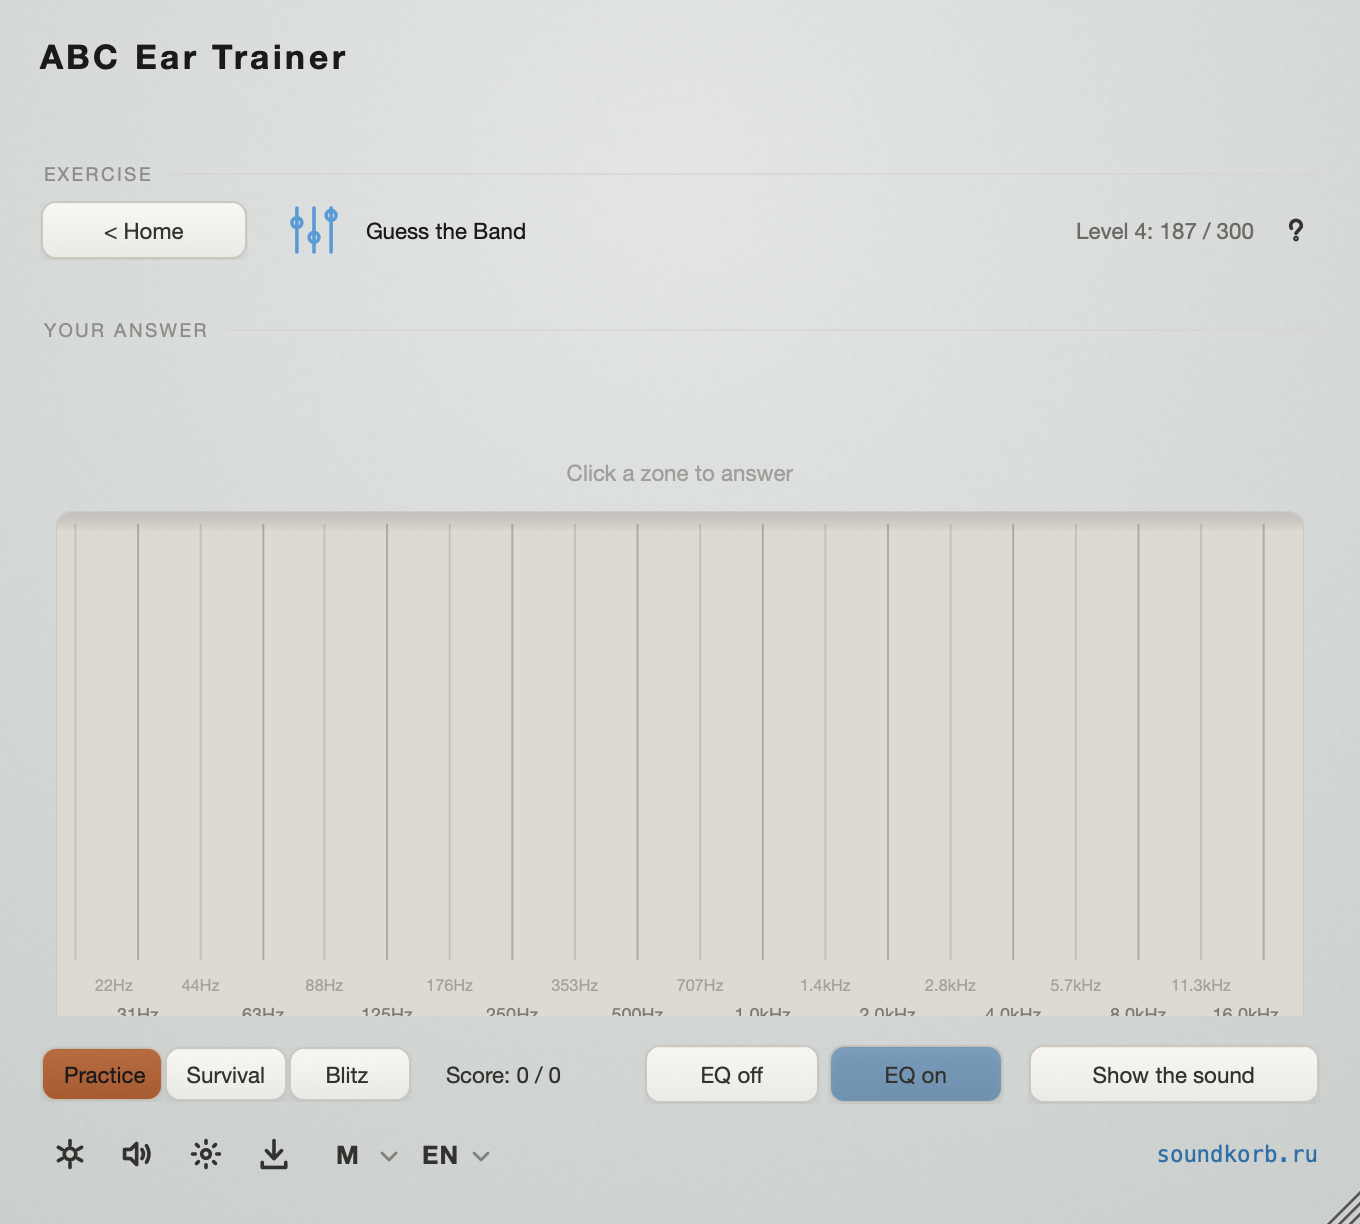
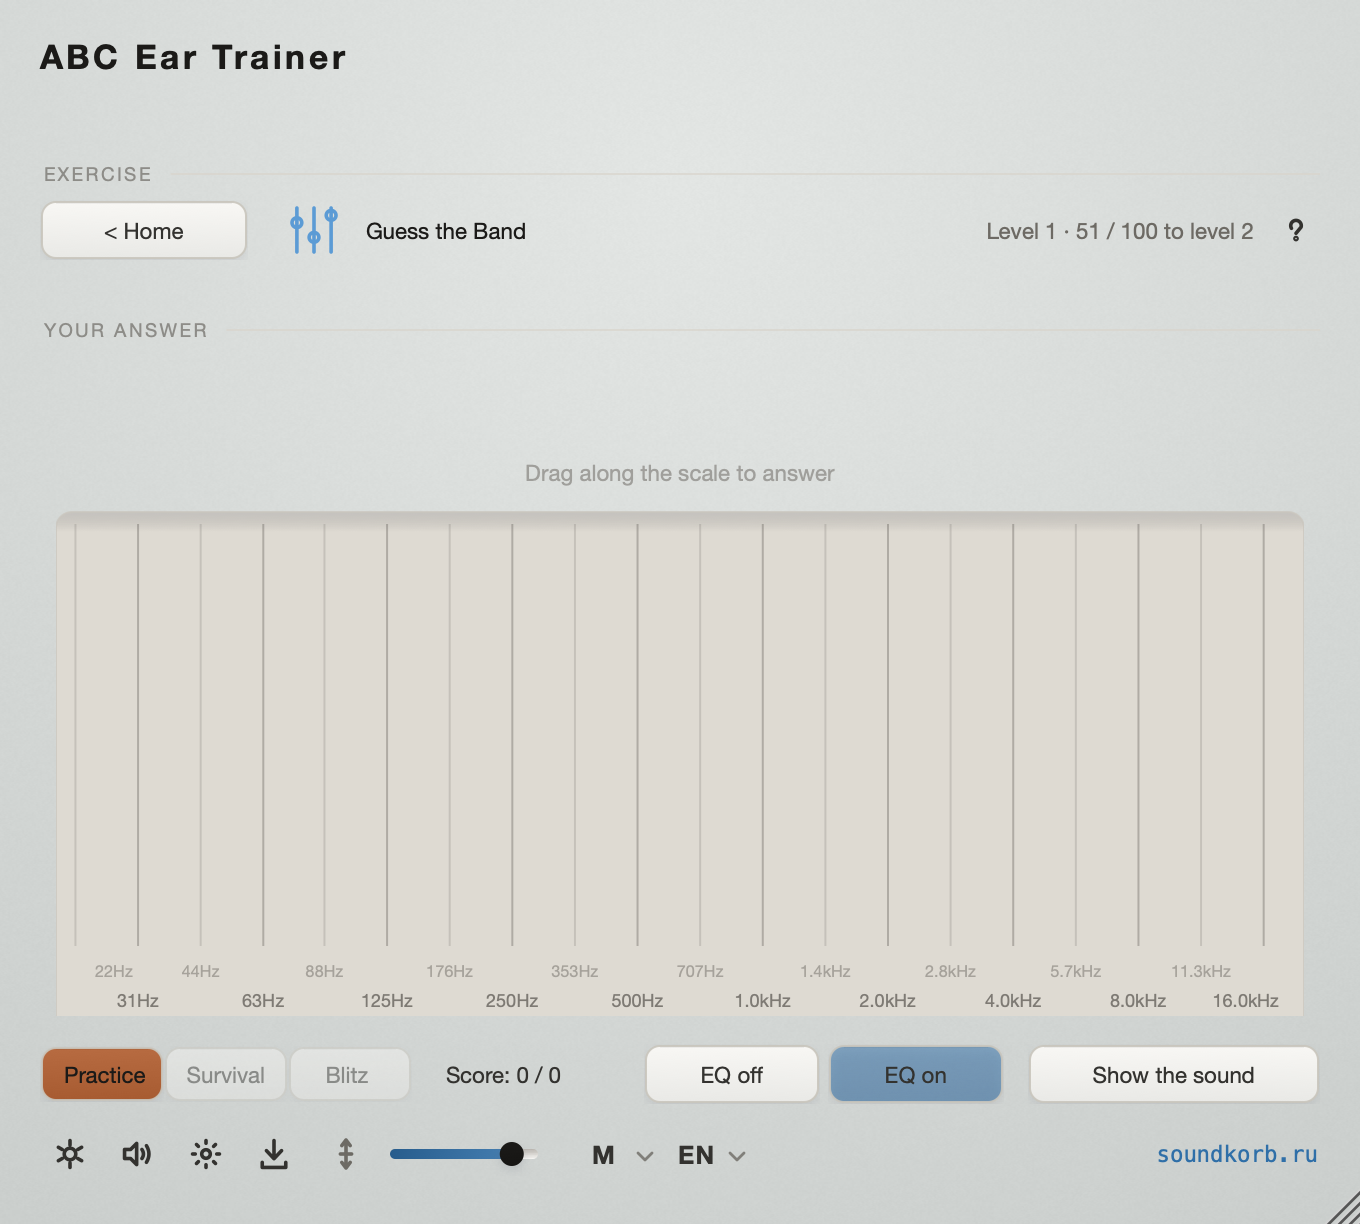
Volume, and three things about levels that were saying the wrong number
There was no volume control anywhere in EarTrainer - the processor had a
mute and nothing else, and per-exercise loudness was fixed in code. Making
one quieter meant the OS mixer.

Where it is applied is the whole design. Every exercise levels its treated
signal against its own untreated one offline so that "which is louder"
cannot answer "which is compressed"; a gain inside a game, or on one side
of the A/B, would put that tell straight back. This one sits after the
game, after the A/B, and after the hint scopes - so it moves both sides by
the same number and cannot change an answer, and a waveform does not
shrink when you turn your monitoring down. Smoothed over 40 ms, because
nothing else in this codebase smooths a gain and a dragged slider would
otherwise be the loudest zipper in the product.

The tolerance band never updated when you earned a level. The rebuild
test compared the choice *count*, which for a continuous exercise never
changes, so the band kept the previous level's width until you left the
exercise and came back. It is the one thing on that screen that says out
loud what a level is, and the reward for passing a five-in-a-row
promotion was invisible in exactly the place it should have been loudest.

The training screen showed the level you had not got yet - level + 1,
against the home card's current level, so the two differed by one and read
as a bug. It now shows both: "Level 4 - 130 / 400 to level 5". English was
[…]

diff --git a/Source/PluginEditor.cpp b/Source/PluginEditor.cpp
@@ -63,6 +63,7 @@ namespace
     // "abcTrain" PropertiesFile the language preference already uses.
     constexpr const char* themeModeKey = "themeMode";
     constexpr const char* uiScaleKey = "uiScale";
+    constexpr const char* outputGainKey = "outputGainDb";
     // Not "have you seen the welcome screen" any more - that shows every
     // launch now, by request. This only remembers whether the walkthrough
     // has been offered, which is a question worth asking exactly once.
@@ -311,6 +312,26 @@ EarTrainerEditor::EarTrainerEditor (EarTrainerProcessor& p)
         }
     };
     addAndMakeVisible (sizeSelector);
+
+    // Output level. The range stops at +6 rather than 0 because the games
+    // deliberately run well below full scale to leave the treated side
+    // headroom, so a laptop at low volume genuinely needs to go up.
+    volumeSlider.setRange (EarTrainerProcessor::minOutputGainDb,
+                            EarTrainerProcessor::maxOutputGainDb, 0.5);
+    volumeSlider.setSkewFactorFromMidPoint (-12.0);
+    volumeSlider.setDoubleClickReturnValue (true, 0.0);
+    volumeSlider.setTooltip (localisation.getText ("ui.volume"));
+    volumeSlider.onValueChange = [this] { applyVolumeFromSlider(); };
+    addAndMakeVisible (volumeSlider);
+
+    // Not Icon::sound - that is the speaker already used two slots along
+    // for "which sounds you train on", and two identical glyphs meaning
+    // different things is the confusion this control was meant to end.
+    // The level arrow reads as amount, and it is sitting against a
+    // horizontal slider, which is itself the universal shape for volume.
+    volumeIcon.setIcon (AppIcons::Icon::gain);
+    volumeIcon.setIconColour (AbcTrainTheme::current().textDim);
+    addAndMakeVisible (volumeIcon);
 
     for (const auto& code : LocalisationManager::getSupportedLanguageCodes())
         languageSelector.addItem (LocalisationManager::getDisplayName (code),
@@ -776,6 +797,9 @@ EarTrainerEditor::EarTrainerEditor (EarTrainerProcessor& p)
                       (int) (logicalWidth * 2.0), (int) (logicalBaseHeight * 2.0));
 
     setUiScale (localisationProperties.getDoubleValue (uiScaleKey, 1.0));
+    volumeSlider.setValue (localisationProperties.getDoubleValue (outputGainKey, 0.0),
+                            juce::dontSendNotification);
+    applyVolumeFromSlider();
 
     applyTheme();
     session.startRun();
@@ -1019,6 +1043,16 @@ void EarTrainerEditor::resized()
         themeButton.setBounds (bar.removeFromLeft (iconSize));
         bar.removeFromLeft (Spacing::tight);
         updateButton.setBounds (bar.removeFromLeft (iconSize));
+        bar.removeFromLeft (Spacing::medium);
+
+        // Output level. Sits with the other things that are about *your*
+        // setup rather than about the exercise, and next to the training
+        // sounds button people were already reaching for when they wanted
+        // this (that one is a speaker glyph, which is exactly what "make
+        // it quieter" looks for).
+        volumeIcon.setBounds (bar.removeFromLeft (18).withSizeKeepingCentre (18, 18));
+        bar.removeFromLeft (Spacing::hairline);
+        volumeSlider.setBounds (bar.removeFromLeft (96).withSizeKeepingCentre (96, 22));
         bar.removeFromLeft (Spacing::medium);
 
         // Indicators, not form fields: each asks for exactly the width its
@@ -1634,6 +1668,14 @@ void EarTrainerEditor::startNewRun()
     refreshRunStatus();
 }
 
+void EarTrainerEditor::applyVolumeFromSlider()
+{
+    const auto db = (float) volumeSlider.getValue();
+    processor.setOutputGainDb (db);
+    localisationProperties.setValue (outputGainKey, (double) db);
+    localisationProperties.saveIfNeeded();
+}
+
 void EarTrainerEditor::setUiScale (float newScale)
 {
     uiScale = juce::jlimit (0.8f, 1.4f, newScale);
@@ -2009,7 +2051,12 @@ void EarTrainerEditor::refreshLocalisedText()
     // that did need writing.
     refreshBeforeAfter();
     refreshHintButton();
-    choiceSlider.setPlaceholderText (localisation.getText ("ui.dragToChoose"));
+    // A ruler has no zones to click. One key served both modes, so the
+    // four scale exercises told you to "click a zone to answer" beside a
+    // continuous axis that has none.
+    choiceSlider.setPlaceholderText (localisation.getText (
+        processor.getGameManager().getActiveGame().usesContinuousScale()
+            ? "ui.dragOnScale" : "ui.dragToChoose"));
 
     {
     }
@@ -2030,8 +2077,18 @@ bool EarTrainerEditor::choiceSliderMatchesGame (Game& game) const
     // A continuous game has no named choices at all - its ruler is the
     // grid marks, which don't move between rounds - so comparing labels
     // there would rebuild the scale every single round for nothing.
+    //
+    // The tolerance still has to be compared, though. It is the one thing
+    // on this screen that says out loud what a level *is*, and it only
+    // changes when the player earns a level - at which point the count
+    // this used to compare on its own has not moved, so the band kept the
+    // previous level's width until the player left the exercise and came
+    // back. The reward for passing a five-in-a-row promotion was invisible
+    // in the exact place it should have been most visible.
     if (game.usesContinuousScale())
-        return choiceSlider.getNumChoices() == game.getNumChoices();
+        return choiceSlider.getNumChoices() == game.getNumChoices()
+                && std::abs (choiceSlider.getToleranceNormalised()
+                              - game.getToleranceNormalised()) < 1.0e-6f;
 
     const auto& shown = choiceSlider.getChoiceLabels();
 
@@ -2082,7 +2139,12 @@ void EarTrainerEditor::rebuildChoiceSlider()
     // panel had grown into.
     choiceSlider.setAxisCaption ({});
 
-    choiceSlider.setPlaceholderText (localisation.getText ("ui.dragToChoose"));
+    // A ruler has no zones to click. One key served both modes, so the
+    // four scale exercises told you to "click a zone to answer" beside a
+    // continuous axis that has none.
+    choiceSlider.setPlaceholderText (localisation.getText (
+        processor.getGameManager().getActiveGame().usesContinuousScale()
+            ? "ui.dragOnScale" : "ui.dragToChoose"));
 }
 
 void EarTrainerEditor::choiceButtonClicked (int choiceIndex)
@@ -2324,8 +2386,12 @@ void EarTrainerEditor::refreshFromGameState()
             const auto need = ProgressManager::pointsRequiredForLevel (level + 1)
                                   - ProgressManager::pointsRequiredForLevel (level);
 
+            // Both numbers. "level" is the one you have - which this screen
+            // never showed at all, so the only way to learn your own level
+            // was to go Home - and "next" is the one the points are for.
             levelLine = localisation.getText ("ui.toNextLevel",
-                                               { { "level", juce::String (level + 1) },
+                                               { { "level", juce::String (level) },
+                                                 { "next", juce::String (level + 1) },
                                                  { "have", juce::String (juce::jmax (0, have)) },
                                                  { "need", juce::String (need) } });
         }

diff --git a/Source/PluginProcessor.h b/Source/PluginProcessor.h
@@ -65,6 +65,25 @@ public:
     // the loud part got held back. See Game::getHintView.
     void setWaveformDisplay (WaveformDisplay* display) noexcept { waveform.store (display); }
 
+    // Output level, in dB, applied to the very last thing that leaves this
+    // processor.
+    //
+    // Where it is applied is the whole design. Every exercise levels its
+    // treated signal against its own untreated one offline, so that "which
+    // is louder" cannot answer "which is compressed" - and a volume
+    // control applied inside a game, or to one side of the A/B, would put
+    // that tell straight back. This sits after all of it, moves both sides
+    // by the same number, and so cannot change any answer.
+    static constexpr float minOutputGainDb = -40.0f;   // below this, silent
+    static constexpr float maxOutputGainDb = 6.0f;
+
+    void setOutputGainDb (float db) noexcept
+    {
+        outputGainDb.store (juce::jlimit (minOutputGainDb, maxOutputGainDb, db));
+    }
+
+    float getOutputGainDb() const noexcept { return outputGainDb.load(); }
+
 private:
     // Declaration order matters: gameManager must be constructed before
     // progressManager, since ProgressManager's constructor registers
@@ -82,6 +101,14 @@ private:
     // invisible in every test, because nothing tests "what does it sound
     // like before you have done anything".
     std::atomic<bool> signalEnabled { false };
+
+    std::atomic<float> outputGainDb { 0.0f };
+
+    // Ramped per sample, not applied per block. Nothing else in this
+    // codebase smooths a gain, which is why the A/B button clicks - and a
+    // volume slider is dragged continuously, so an unsmoothed one would
+    // be the loudest zipper in the product.
+    juce::LinearSmoothedValue<float> outputGain { 1.0f };
 
     std::atomic<Vectorscope*> vectorscope { nullptr };
     std::atomic<SpectrumAnalyzerComponent*> spectrum { nullptr };

diff --git a/Source/PluginProcessor.cpp b/Source/PluginProcessor.cpp
@@ -26,6 +26,12 @@ void EarTrainerProcessor::prepareToPlay (double sampleRate, int samplesPerBlock)
     spec.numChannels = (juce::uint32) getTotalNumOutputChannels();
 
     gameManager.prepare (spec);
+
+    // 40 ms is long enough that a dragged slider never zippers and short
+    // enough that the control still feels immediate.
+    outputGain.reset (sampleRate, 0.04);
+    outputGain.setCurrentAndTargetValue (juce::Decibels::decibelsToGain (outputGainDb.load(),
+                                                                         minOutputGainDb));
 }
 
 void EarTrainerProcessor::processBlock (juce::AudioBuffer<float>& buffer, juce::MidiBuffer&)
@@ -90,6 +96,28 @@ void EarTrainerProcessor::processBlock (juce::AudioBuffer<float>& buffer, juce::
                 const auto mono = 0.5f * (left[i] + right[i]);
                 display->pushSample (mono, mono);
             }
+    }
+
+    // Output level, last of all.
+    //
+    // After the scopes on purpose: the hint views are about what the
+    // processing does to the signal, not about how loud the player has set
+    // their monitoring - a waveform that shrank as you turned the volume
+    // down would be answering a question nobody asked.
+    //
+    // And after the game, which is what keeps it honest: each exercise
+    // levels its treated signal against its untreated one so loudness
+    // cannot be the tell, and one gain applied to everything downstream
+    // moves both sides of every A/B by the same amount.
+    outputGain.setTargetValue (juce::Decibels::decibelsToGain (outputGainDb.load(),
+                                                                minOutputGainDb));
+
+    for (int i = 0; i < numSamples; ++i)
+    {
+        const auto g = outputGain.getNextValue();
+
+        for (int ch = 0; ch < numChannels; ++ch)
+            buffer.getWritePointer (ch)[i] *= g;
     }
 }
 

diff --git a/Source/ChoiceSliderComponent.cpp b/Source/ChoiceSliderComponent.cpp
@@ -559,7 +559,14 @@ void ChoiceSliderComponent::paintContinuousScale (juce::Graphics& g)
     // one level up.
     const auto markFont = AbcTrainLookAndFeel::microFont();
     const auto labelRowHeight = std::ceil (markFont.getHeight() * 1.05f) + 5.0f;
-    const auto lowerRowY = scaleArea.getBottom() - labelRowHeight - 3.0f;
+    // 10 rather than 3. Measured on a rendered 918x795 window: the lower
+    // series was sliced at about 60% of its glyph height even though the
+    // arithmetic put its box three pixels clear of the well. I did not
+    // find what eats those last few pixels - the numbers on both sides
+    // agree and still disagree with the picture - so this is clearance,
+    // not a diagnosis. Verified by rendering, which is the only thing
+    // that ever catches this class of bug here.
+    const auto lowerRowY = scaleArea.getBottom() - labelRowHeight - 10.0f;
     const auto upperRowY = lowerRowY - labelRowHeight + 1.0f;
 
     for (const auto& mark : gridMarks)

diff --git a/Source/PluginEditor.h b/Source/PluginEditor.h
@@ -1007,6 +1007,16 @@ private:
     float uiScale = 1.0f;
     CompactSelector sizeSelector;
 
+    // Output level. Deliberately a plain slider rather than a
+    // CompactSelector: volume is the one control here you want to nudge
+    // and hear, and a popup menu of fixed steps is the wrong shape for
+    // that. The processor applies it after everything, smoothed - see
+    // EarTrainerProcessor::setOutputGainDb for why "after everything"
+    // matters to the exercises.
+    juce::Slider volumeSlider { juce::Slider::LinearHorizontal, juce::Slider::NoTextBox };
+    AppIconComponent volumeIcon;
+    void applyVolumeFromSlider();
+
     // Practice / Survival / Blitz. A run in the latter two ends on its
     // own terms (lives or clock) and posts a score against the exercise;
     // see SessionManager.

diff --git a/Source/ChoiceSliderComponent.h b/Source/ChoiceSliderComponent.h
@@ -44,6 +44,10 @@ public:
     // slides along: the readout tracks the cursor, and a tolerance band
     // travels with it showing how much slack the current difficulty gives.
     // `formatter` turns a normalised 0..1 position into real-unit text.
+    // Exposed so the editor can tell a level-up from an ordinary new
+    // round: the band's width is what actually changed.
+    float getToleranceNormalised() const noexcept { return toleranceNormalised; }
+
     void setContinuousScale (std::vector<Game::GridMark> marks,
                              float toleranceNormalised,
                              std::function<juce::String (float)> formatter);
